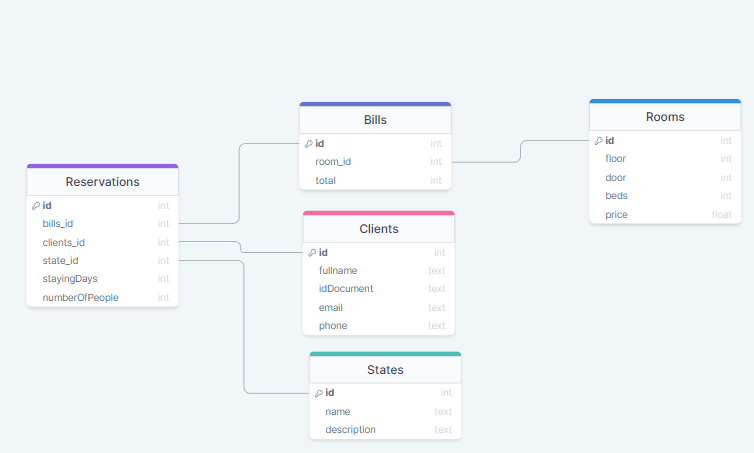
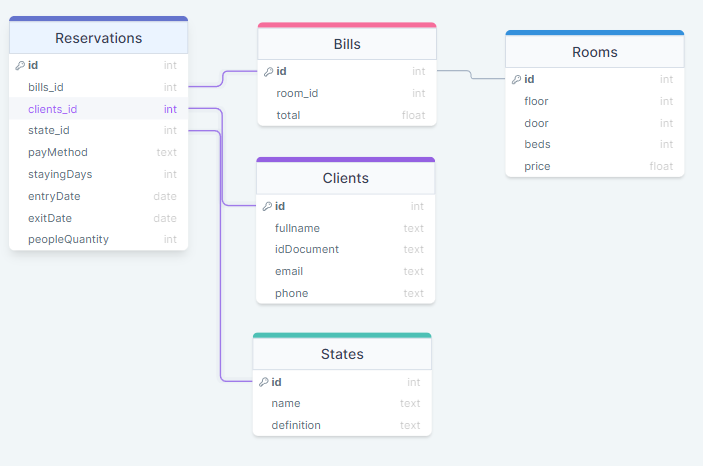
getReservations mejor, limpia, y filtro agregado

diff --git a/src/api/v1/reservation/reservation.controller.js b/src/api/v1/reservation/reservation.controller.js
@@ -1,28 +1,25 @@
 const {Reservations} = require('../../../models/reservations');
 const { States } = require('../../../models/states');
+const {Clients} = require('../../../models/clients');
 const {generalReturnMessage, internalErrorMessage} = require('../../../messages/messages')
 
-// Ver todas las reservaciones las reservaciones actuales
+// Ver las reservaciones las reservaciones actuales
 const getReservations = async(req, res) => {
     try {
-        // Si se pasa la variable state, se filtraran por el estado de la reservacion
-        const {state} = req.body
-        if (state) {
-            const state = await States.findOne({where: { name: state } });
-            console.log('state:', state);
+        const {state, idDocument} = req.body
 
-            var foundReservations = await Reservations.findAll({
-                where: {
-                    state_id: state.id
-                }
-            });
+        if (state) { // Si se pasa la variable state, se filtraran por el estado de la reservacion en caso de ser necesario
+            // const foundState = await States.findOne({where: { name: state } });
+            var foundReservations = await Reservations.findAll({ include: {model: States, where: { id: state } } });
 
-            console.log(foundReservations);
-        } else {
+        } else if(idDocument){ // Si se pasa la variable idDocument, se filtraran por el estado de la reservacion en caso de ser necesario 
+            var foundReservations = await Reservations.findAll({ include: {model: Clients, where: { idDocument: idDocument } } });
+            
+        } else { // En caso de no haber un filtro, se pasan todas las reservaciones
             var foundReservations = await Reservations.findAll()
-            console.log('blah', foundReservations);
         }
 
+        // Verifica que no exista reservacion
         if (foundReservations.length >= 0) return generalReturnMessage(res, 204, 'There is not reservations')
 
         return generalMessage(res, 200, 'Reservations', foundReservations)
@@ -33,17 +30,31 @@ const getReservations = async(req, res) => {
     
 }
 
-// Hacer una reservacion
+// Hacer una reservacion, esto es la primera parte de la reservacion, 
+// donde se piden todos los datos y pasa al estado pendiente
 const makeReservation = (req, res) => {
     try {
         const {
-
+            // datos de la factura
+            room_id,
+            total,
+            // datos de clientes
+            fullname,
+            idDocument,
+            email,
+            phone,
+            // datos de la reservacion 
+            payMethod,
+            entryDate,
+            exitDate,
+            peopleQantity
         } = req.body
-        return generalMessage(res, 201, 'Reservation Made', foundReservations)
+    // No se puede hacer una reservacion en la misma habitacion que otra persona ya tiene una reservacion en el mismo tiempo
+
+        return generalReturnMessage(res, 201, 'Reservation Made', reservationInfo)
     } catch (error) {
-        internalErrorMessage(res, 'reservation.controller.js', 'getReservations', error)
+        internalErrorMessage(res, 'reservation.controller.js', 'makeReservation', error)
     }
-    res.status(200).json({message: 'Reservation Made'})
 
 }
 
@@ -60,5 +71,8 @@ const cancelReservation = (req, res) => {
 }
 
 module.exports = {
-    getReservations
+    getReservations,
+    makeReservation,
+    payReservation,
+    cancelReservation
 }

diff --git a/src/api/v1/reservation/reservation.routes.js b/src/api/v1/reservation/reservation.routes.js
@@ -1,12 +1,17 @@
 const {Router} = require('express')
-const {getReservations} = require('./reservation.controller')
+const {
+    getReservations,
+    makeReservation,
+    payReservation,
+    cancelReservation
+} = require('./reservation.controller')
 
 const router = Router()
 
 router.get('/', getReservations);
-// router.post('/', makeReservation);
-// router.patch('/pay', payReservation);
-// router.patch('/cancel', cancelReservation);
+router.post('/make', makeReservation);
+router.patch('/pay', payReservation);
+router.patch('/cancel', cancelReservation);
 
 
 module.exports = router

diff --git a/src/models/reservations.js b/src/models/reservations.js
@@ -34,6 +34,10 @@ const Reservations = sequelize.define('Reservations', {
     type: DataTypes.DATEONLY,
     allowNull: false
   },
+  exitDate:{
+    type: DataTypes.DATEONLY,
+    allowNull: false
+  },
   numberOfPeople: {
     type: DataTypes.INTEGER,
     allowNull: false
